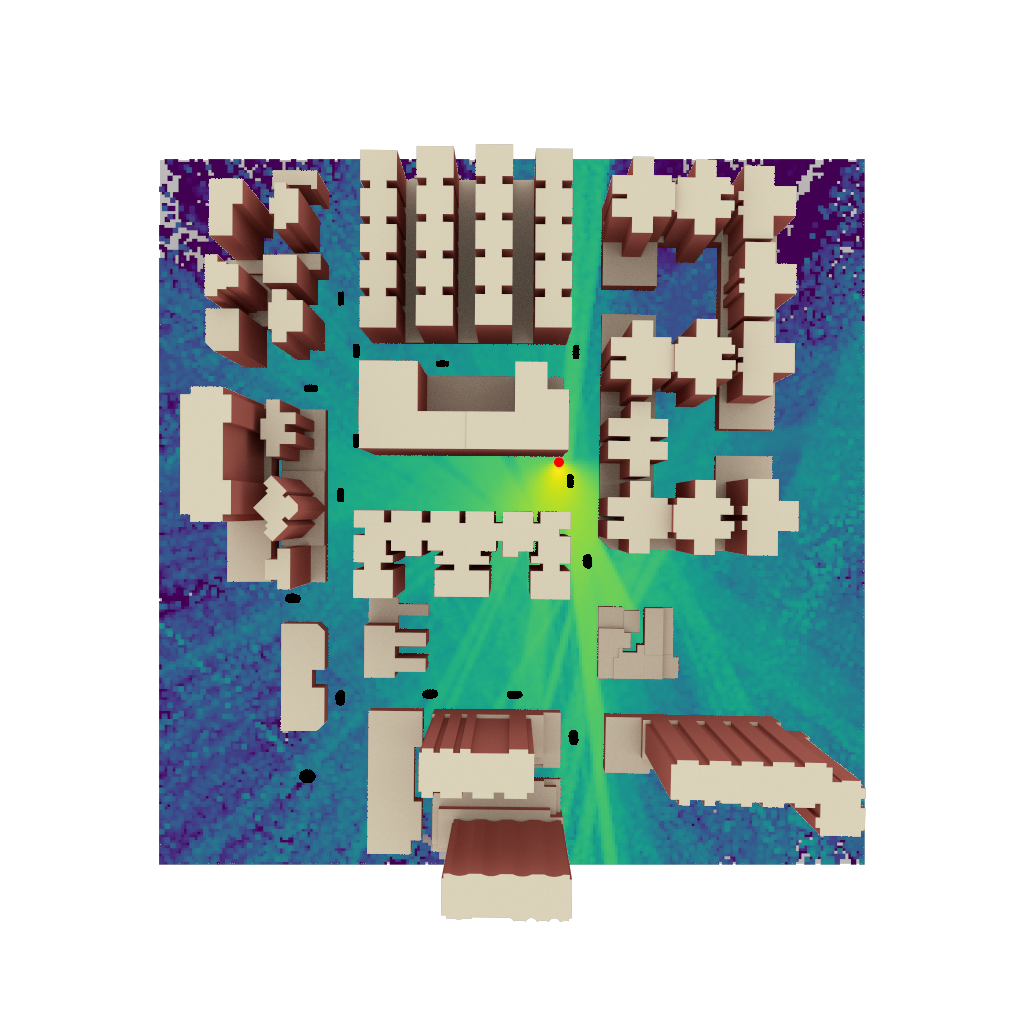
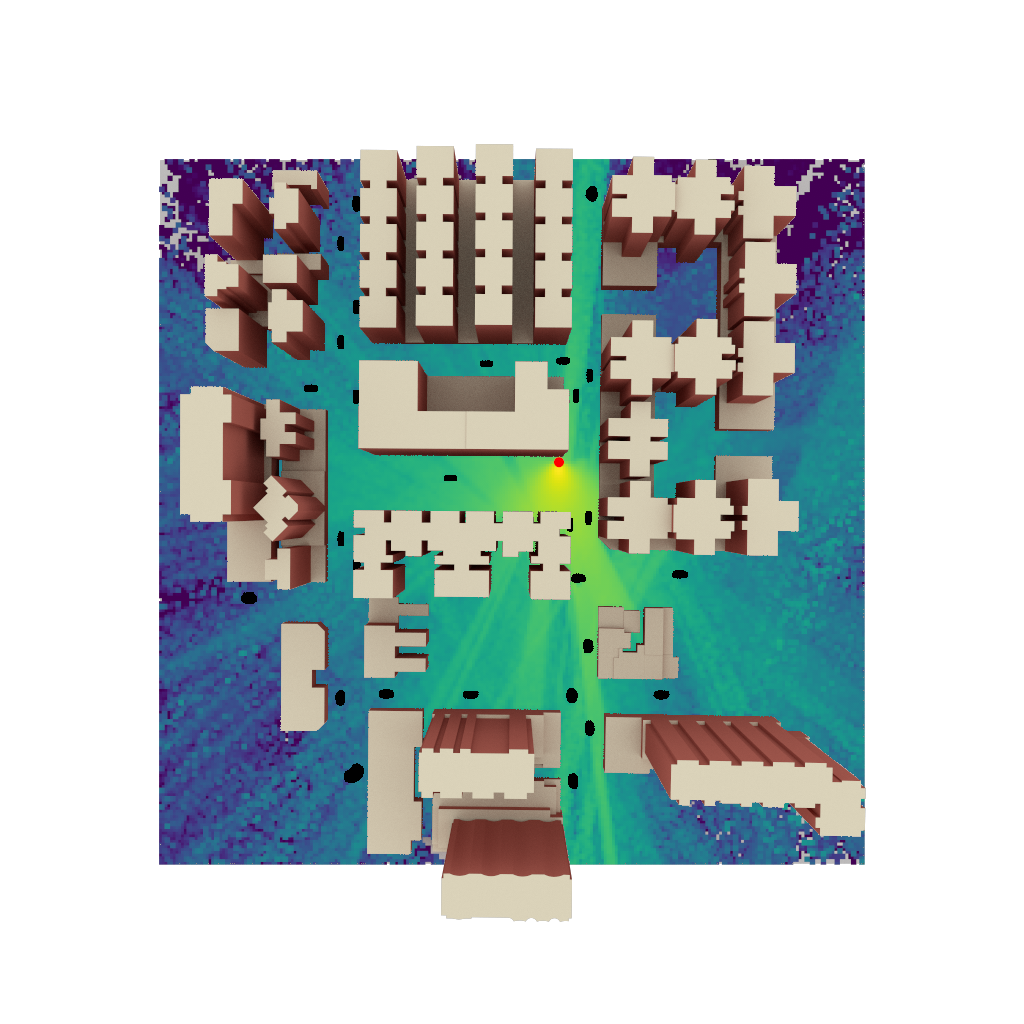
backend

diff --git a/data_gain.py b/data_gain.py
@@ -103,8 +103,8 @@ for idx in range(1,num_scenes+1):
                     num_samples=1024,
                     rm_vmin=-140)
         
-        # scene = util.cars_movement(scene, displacement_vec)
-        scene = util.cars_desity_change(scene, radio=0.3)
+        scene = util.cars_movement(scene, displacement_vec)
+        # scene = util.cars_desity_change(scene, radio=0.3)
         
         
 
